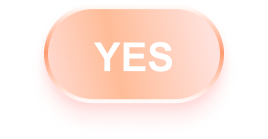
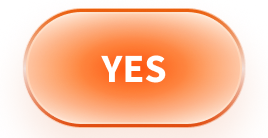
Re-export YES and TEST IT buttons with FFF6F2 reflective gradient rims; leave NO untouched

diff --git a/app.js b/app.js
@@ -218,7 +218,7 @@ function startNewTickers(){
   });
 }
 function newButton(label,action,x,y,disabled=false,size=null){
-  const source=label==='YES'?'yesButtonAlpha.png':label==='NO'?'noButtonAlpha.png':label==='TEST IT'?'testButtonAlpha.png':'nextButtonAlpha.png';
+  const source=label==='YES'?'yesButtonAlpha.png?v=rim-fff6f2-20261104':label==='NO'?'noButtonAlpha.png':label==='TEST IT'?'testButtonAlpha.png?v=rim-fff6f2-20261104':'nextButtonAlpha.png';
   const wide=size?.[0]??(label==='TEST IT'?140:label==='NEXT'?67:134);
   const high=size?.[1]??69;
   return '<button class="lay new-ui-button'+(disabled?' disabled':'')+'" '+box(x,y,wide,high)+' data-action="'+action+'" aria-label="'+label+'" '+(disabled?'disabled':'')+'><img src="assets/figma-current/hd/'+source+'" alt=""></button>';

diff --git a/index.html b/index.html
@@ -15,6 +15,6 @@
   <script src="figure-bounds-v2.js?v=doll-front-back-1"></script>
   <script src="morph.js?v=facial-flow-two-originals-20261104-7"></script>
   <script src="figma-glass-text.js?v=syringe-native-newweb7-graded-20261104-53"></script>
-  <script src="app.js?v=consent-correct-x-tickers-preserved-20261104-17"></script>
+  <script src="app.js?v=yes-test-rim-fff6f2-20261104-18"></script>
 </body>
 </html>
